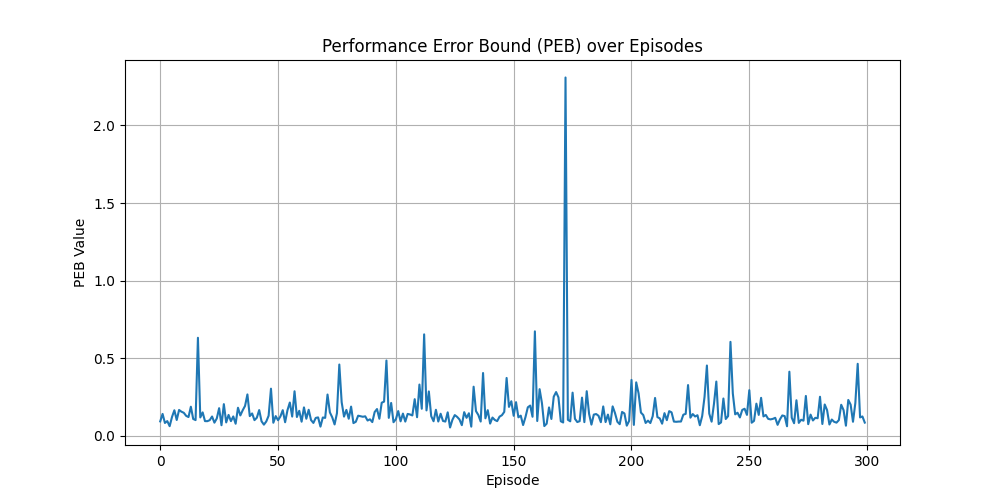
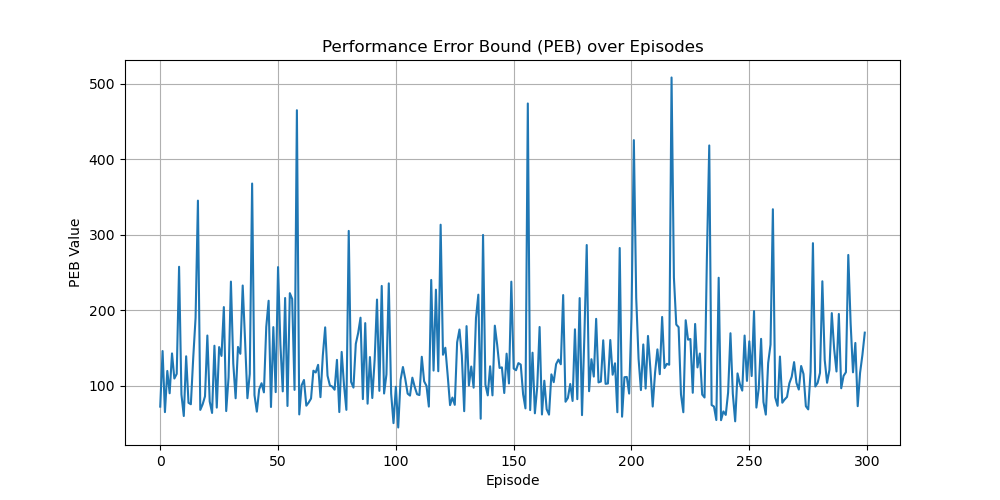
work done before weekend, need to add star ris to this now

diff --git a/tfddpg.py b/tfddpg.py
@@ -1,0 +1,91 @@
+import numpy as np
+
+class ReplayBuffer:
+    def __init__(self, max_size, input_shape, n_actions):
+        self.memsize = max_size
+        self.mem_cntr = 0
+        self.state_memory = np.zeros((self.memsize, *input_shape))
+        self.new_state_memory = np.zeros((self.memsize, *input_shape))
+        self.action_memory = np.zeros((self.memsize, n_actions))
+        self.reward_memory = np.zeros(self.memsize)
+        self.terminal_memory = np.zeros(self.memsize, dtype=np.bool)
+        
+    def store_transition(self, state, action, reward, new_state, done):
+        index = self.mem_cntr % self.memsize
+        self.state_memory[index] = state
+        self.action_memory[index] = action
+        self.reward_memory[index] = reward
+        self.terminal_memory[index] = done #value of initial state is 0, determining whether we are starting
+        
+        
+        # self.new_state_memory[index] = new_state
+        
+        self.mem_cntr += 1
+        
+    def sample_buffer(self, batch_size):
+        max_mem = min(self.mem_cntr, self.memsize)
+        
+        batch = np.random.choice(max_mem, batch_size, replace=False)
+        
+        states = self.state_memory[batch]
+        states_ = self.new_state_memory[batch]
+        actions = self.action_memory[batch]
+        rewards = self.reward_memory[batch]
+        dones = self.terminal_memory[batch]
+        
+        return states, actions, rewards, states_, dones
+    
+import os
+import tensorflow as tf
+import tensorflow.keras as keras
+from tensorflow.keras.layers import Dense
+
+
+class CriticNetwork(keras.Model):
+    def __init__(self, fc1_dims = 512, fc2_dims = 512,
+                 name='critic', chkpt_dir='tmp/ddpg'):
+        super(CriticNetwork, self).__init__()
+        self.fc1_dims = fc1_dims
+        self.fc2_dims = fc2_dims
+        # self.n_Actions = n_Actions
+        self.model_name = name
+        self.chkpt_dir = chkpt_dir
+        self.checkpoint_file = os.path.join(self.chkpt_dir, name+'_ddpg.h5')
+        
+        self.fc1 = Dense(self.fc1_dims, activation='relu')
+        self.fc2 = Dense(self.fc2_dims, activation='relu')
+        self.q = Dense(1, activation=None)
+        
+    def call(self, state, action):
+        action_value = self.fc1(tf.concat([state, action], axis=1))
+        action_value = self.fc2(action_value)
+        
+        q = self.q(action_value)
+        
+        return q
+
+class ActorNetwork(keras.model):
+    def __init__(self, fc1_dims=512, fc2_dims=512, n_actions=2, name='actor', 
+                 chkpt_dir='tmp/ddpg'):
+        super(ActorNetwork, self).__init__()
+        self.fc1_dims = fc1_dims
+        self.fc2_dims = fc2_dims
+        self.n_actions = n_actions
+        self.model_name = name
+        self.chkpt_dir = chkpt_dir
+        self.checkpoint_file = os.path.join(self.chkpt_dir, name+'_ddpg.h5')
+        
+        self.fc1 = Dense(self.fc1_dims, activation='relu')
+        self.fc2 = Dense(self.fc2_dims, activation='relu')
+        
+        # since we don't want a null activation function, we use tanh
+        self.mu = Dense(self.n_actions, activation='tanh')
+        
+    def call(self, state):
+        prob = self.fc1(state)
+        prob = self.fc2(prob)
+        
+        mu = self.mu(prob)
+        
+        
+        

diff --git a/train_ris_isac.py b/train_ris_isac.py
@@ -163,10 +163,10 @@ class RISISACTrainer:
                 # Convert and execute action
                 matlab_action = matlab.double(action.tolist())
                 
-                next_matlab_state, reward, done = self.eng.step(self.sim, matlab_action, nargout=3)
-                current_peb = float(self.eng.calculatePerformanceMetrics(self.sim))
-                rate_values[episode].append(float(self.eng.getrate(self.sim)))
-                power_values[episode].append(float(self.eng.getpower(self.sim)))
+                # current_peb = float(self.eng.calculatePerformanceMetrics(self.sim))
+                next_matlab_state, reward, current_peb, rate, power, done = self.eng.step(self.sim, matlab_action, nargout=6)
+                rate_values[episode].append(float(rate))
+                power_values[episode].append(float(power))
                 peb_ae[episode].append(current_peb)
                 # Track PEB values
                 peb_values_in_episode.append(current_peb)
@@ -253,11 +253,11 @@ class RISISACTrainer:
                 print(f"\nEpisode {episode + 1}/{num_episodes}")
                 print(f"Reward: {episode_reward:.3f}")
                 print(f"Initial PEB: {initial_peb:.6f}")
-                print(f"Min PEB: {min_peb_in_episode:.6f}")
-                print(f"Max PEB: {max_peb_in_episode:.6f}")
-                print(f"Avg PEB: {avg_peb_in_episode:.6f}")
+                # print(f"Min PEB: {min_peb_in_episode:.6f}")
+                # print(f"Max PEB: {max_peb_in_episode:.6f}")
+                # print(f"Avg PEB: {avg_peb_in_episode:.6f}")
                 print(f"Last PEB: {last_peb_in_episode:.6f}")
-                print(f"Best PEB (all episodes): {self.best_metrics['peb']:.6f}")
+                # print(f"Best PEB (all episodes): {self.best_metrics['peb']:.6f}")
                 print(f"Learning Rate: {self.agent.current_actor_lr:.6f}")
                 print(f"Buffer Size: {len(self.agent.replay_buffer)}")
                 print(f"Decay rate is: {decay_rate}")
@@ -342,16 +342,16 @@ if __name__ == "__main__":
         plt.xlabel('Episode')
         plt.ylabel('Reward')
         plt.savefig(os.path.join(plt_folder,'training_rewards.png'))
-        plt.show()
+        # plt.show()
         
         plt.figure(figsize=(10, 5))
-        plt.plot(episodes, metrics['min_peb_values'])
+        plt.plot(episodes, metrics['last_peb_values'])
         plt.title('Performance Error Bound (PEB) over Episodes')
         plt.xlabel('Episode')
         plt.ylabel('PEB Value')
         plt.grid(True)
         plt.savefig(os.path.join(plt_folder,'peb_values.png'))
-        plt.show()
+        # plt.show()
         
         plt.figure(figsize=(10,5))
         plt.plot(episodes, metrics['avg_rate'])
@@ -360,7 +360,7 @@ if __name__ == "__main__":
         plt.ylabel('Rate(Bits/s/hz)')
         plt.grid(True)
         plt.savefig(os.path.join(plt_folder,'Rate_per_episode'))
-        plt.show()
+        # plt.show()
 
         plt.figure(figsize=(10,5))
         plt.plot(episodes, metrics['avg_power'])
@@ -369,7 +369,7 @@ if __name__ == "__main__":
         plt.ylabel('Power(db)')
         plt.grid(True)
         plt.savefig(os.path.join(plt_folder,'Hybrid_power_per_episode'))
-        plt.show()
+        # plt.show()
 
     finally:
         # Clean up

diff --git a/RISISAC_V2X_Sim.m b/RISISAC_V2X_Sim.m
@@ -49,6 +49,9 @@ classdef RISISAC_V2X_Sim < handle
         time = 0;
         arrival_threshold = 10
 
+        minpeb = 10000;
+        peb = 0;
+
         % Channel matrices
         H_bt      % Direct channel
         H_br     % BS-RIS channel
@@ -354,32 +357,32 @@ classdef RISISAC_V2X_Sim < handle
             ];
             state = real(state);
             state = state(:)';
-
         end
 
-        function [next_state, reward, done] = step(obj, action)
+        function [next_state, reward, peb, rate, power, done] = step(obj, action)
             ris_phases = action(1:obj.Nr);
             obj.phi = diag(exp(1j * 2 * pi * ris_phases));
+
             [peb] = obj.calculatePerformanceMetrics();
+            rate = getrate(obj);
+            power = getpower(obj);
+            reward = obj.computeReward(peb);
+            reward = sqrt((real(reward)^2) - (imag(reward)^2));
 
             direction = (obj.destination - obj.car_loc) / norm(obj.destination - obj.car_loc);
             obj.car_loc = obj.car_loc + direction * obj.speed * obj.dt;
             obj.time = obj.time + obj.dt;
             
             obj.target_loc = obj.car_loc;
-            
-            [~,~,~,~,~,~,~,~] = computeGeometricParameters(obj);
             obj.stepCount = obj.stepCount + 1;
             
-            next_state = getState(obj);
             
-            reward = obj.computeReward(peb);
-            reward = sqrt((real(reward)^2) - (imag(reward)^2));
             destination_reached = norm(obj.car_loc - obj.destination) < obj.arrival_threshold;
             out_of_bounds = checkOutOfBounds(obj);
             timeout = obj.stepCount >= obj.maxSteps;
-            
             done = destination_reached || out_of_bounds || timeout;
+            
+            next_state = getState(obj);
         end
 
         function out_of_bounds = checkOutOfBounds(obj)
@@ -489,14 +492,20 @@ classdef RISISAC_V2X_Sim < handle
         function [peb] = calculatePerformanceMetrics(obj)
             [J, ~, ~] = computeFisherInformationMatrix(obj);
             CRLB = inv(J);
-            peb = sqrt(trace(CRLB));
+            obj.peb = sqrt(trace(CRLB));
             rate_constraint_satisfied = (obj.rate >= obj.R_min);
 
             if ~rate_constraint_satisfied
                 penalty_factor = 1 + (obj.R_min - obj.rate)/obj.R_min;
-                peb = peb * penalty_factor;
+                obj.peb = obj.peb * penalty_factor;
             end
-            peb = sqrt((real(peb)^2) - (imag(peb)^2));
+            obj.peb = sqrt((real(obj.peb)^2) - (imag(obj.peb)^2))*100;
+            % if(obj.peb < obj.minpeb)
+            %     obj.minpeb = obj.peb;
+            % else
+            %     obj.peb = obj.minpeb;
+            % end
+            peb = obj.peb;
         end
         
         function [T] = computeTransformationMatrix(obj)
